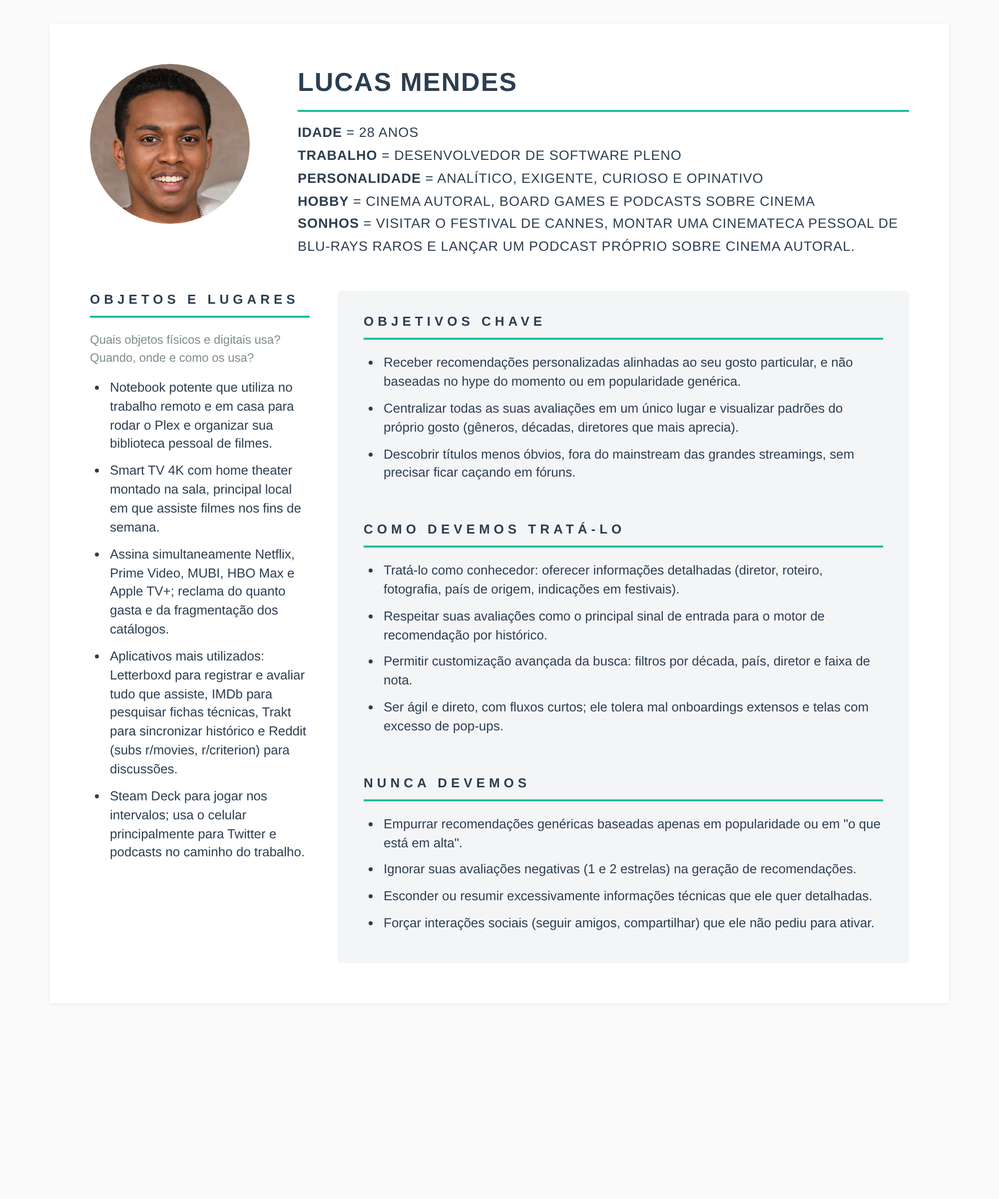
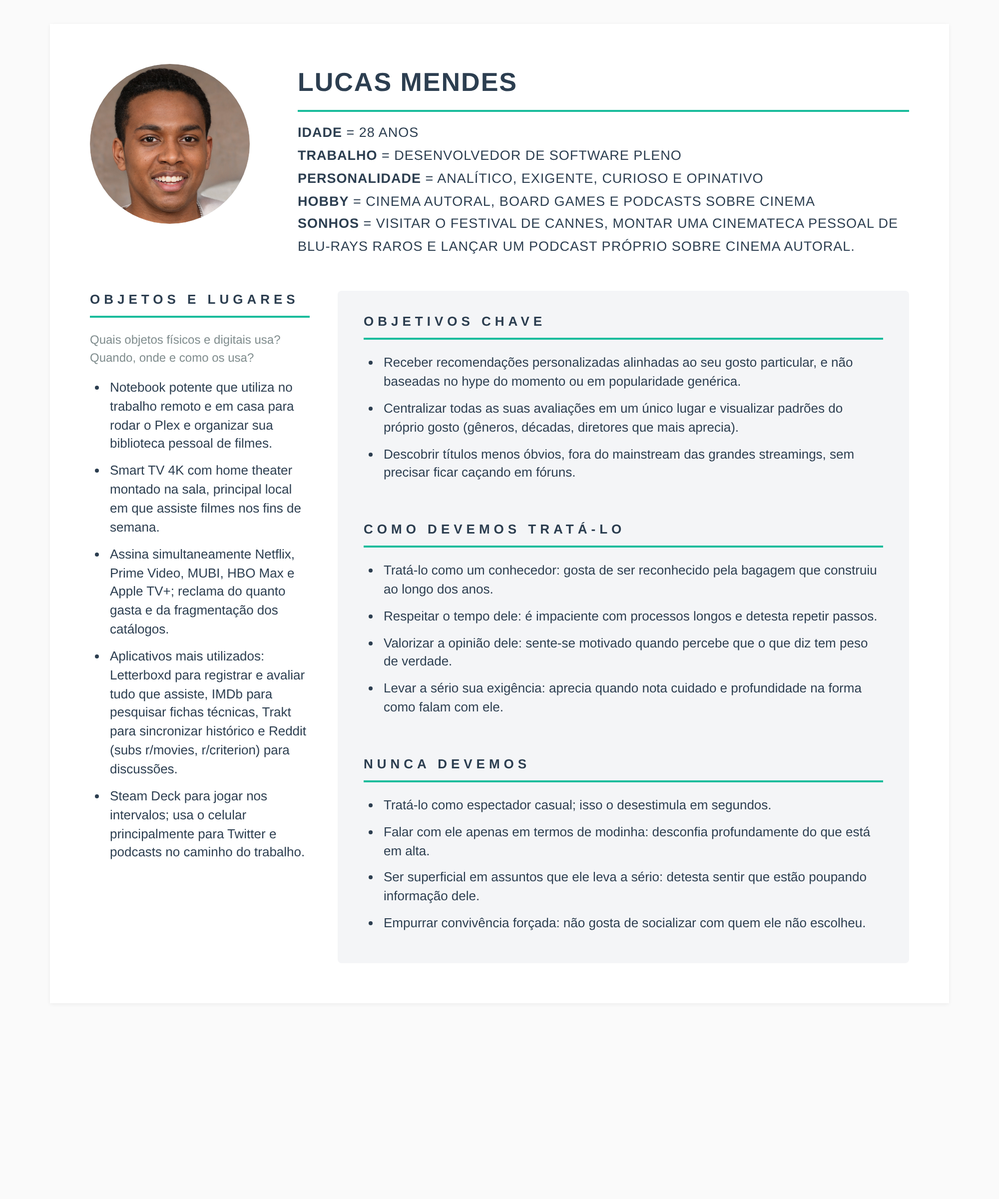
Etapa 3: ajustes nas personas e seções 4.3 e 4.4 do design.md

Changed region(s): [[0.372, 0.625, 0.868, 0.7812], [0.372, 0.4688, 0.868, 0.5938]]

diff --git a/docs/personas/persona-3.html b/docs/personas/persona-3.html
@@ -59,28 +59,20 @@
         <section class="persona-block">
           <h3>Como Devemos Tratá-lo</h3>
           <ul>
-            <li>Oferecer uma interface moderna, sofisticada e esteticamente agradável, com recursos que enriqueçam sua
-              experiência visual.</li>
-            <li>Disponibilizar detalhes técnicos ricos sobre os filmes, incluindo elenco, equipe técnica, curiosidades
-              de produção e avaliações da crítica.</li>
-            <li>Apresentar recomendações precisas baseadas em nichos ou estilos de direção, mostrando que a plataforma
-              entende seu nível de exigência.</li>
-            <li>Permitir uma experiência social, facilitando o compartilhamento de críticas e listas em outras redes.
-            </li>
+            <li>Reconhecer o olhar criativo dele: gosta de ser tratado como alguém com repertório visual e opinião própria.</li>
+            <li>Conversar de igual para igual: é jovem, mas detesta ser tratado como leigo só pela idade ou pelo cargo de estagiário.</li>
+            <li>Levar a sério seu gosto por descobertas: sente-se valorizado quando percebe disposição em ir além do óbvio com ele.</li>
+            <li>Respeitar sua agilidade: tem paciência curta com burocracia e processos travados.</li>
           </ul>
         </section>
 
         <section class="persona-block">
           <h3>Nunca Devemos</h3>
           <ul>
-            <li>Apresentar apenas recomendações genéricas ou os blockbusters do momento, ignorando seu interesse por
-              obras mais profundas.</li>
-            <li>Ocultar detalhes técnicos, fichas completas ou avaliações sob camadas de cliques difíceis de acessar.
-            </li>
-            <li>Entregar uma interface lenta, engessada ou com design datado, o que geraria frustração e abandono
-              imediato.</li>
-            <li>Dificultar a organização pessoal do usuário, impedindo a criação de listas ou o registro detalhado do
-              que já foi assistido.</li>
+            <li>Tratá-lo como público de massa: ele detesta ser confundido com o "espectador médio".</li>
+            <li>Dar respostas prontas e clichês: percebe rapidamente quando algo é superficial.</li>
+            <li>Subestimá-lo pela idade ou pelo cargo: nada o incomoda mais do que paternalismo.</li>
+            <li>Apresentar algo malfeito visualmente: o desleixo estético o irrita instantaneamente.</li>
           </ul>
         </section>
       </div>

diff --git a/docs/personas/persona-2.html b/docs/personas/persona-2.html
@@ -48,20 +48,20 @@
       <section class="persona-block">
         <h3>Como Devemos Tratá-la</h3>
         <ul>
-          <li>Usar linguagem clara, simples e sem jargão técnico de cinema; explicar o que cada elemento faz com palavras do dia a dia.</li>
-          <li>Apresentar opções pré-filtradas e poucos cliques entre abrir o sistema e decidir o que assistir.</li>
-          <li>Aceitar que ela entrará com poucos gêneros e quase nenhuma avaliação inicial, oferecendo recomendações úteis mesmo nesse cenário (cold start).</li>
-          <li>Mostrar com destaque a plataforma de streaming onde o título está, com link direto para o aplicativo.</li>
+          <li>Conversar com simplicidade: gosta quando explicam as coisas como em uma conversa de cozinha.</li>
+          <li>Respeitar o pouco tempo livre que sobra entre plantões, casa e família.</li>
+          <li>Reconhecer o peso das indicações de pessoas próximas: ela confia muito mais em quem conhece do que em opiniões anônimas.</li>
+          <li>Acolher dúvidas básicas sem julgamento: sente-se à vontade quando ninguém a faz se sentir atrasada com tecnologia.</li>
         </ul>
       </section>
 
       <section class="persona-block">
         <h3>Nunca Devemos</h3>
         <ul>
-          <li>Sobrecarregar a tela com filtros, abas e opções avançadas que ela não pediu.</li>
-          <li>Exigir que ela avalie filmes para conseguir usar a plataforma; avaliar deve ser opcional.</li>
-          <li>Esconder ou minimizar a informação de em qual streaming o título está disponível.</li>
-          <li>Usar termos técnicos de cinema (mise-en-scène, fotografia, escola estética) sem contexto.</li>
+          <li>Tratá-la com formalidade fria ou linguagem complicada: rapidamente se sente fora do lugar.</li>
+          <li>Apressá-la: detesta sentir que precisa correr para concluir algo simples.</li>
+          <li>Ignorar o contexto familiar dela: não gosta quando esquecem que mãe e esposa cuidam de muita gente além de si mesmas.</li>
+          <li>Constrangê-la por dúvidas básicas: nada a afasta mais rápido do que sentir-se julgada.</li>
         </ul>
       </section>
     </div>

diff --git a/docs/personas/persona-1.html b/docs/personas/persona-1.html
@@ -48,20 +48,20 @@
       <section class="persona-block">
         <h3>Como Devemos Tratá-lo</h3>
         <ul>
-          <li>Tratá-lo como conhecedor: oferecer informações detalhadas (diretor, roteiro, fotografia, país de origem, indicações em festivais).</li>
-          <li>Respeitar suas avaliações como o principal sinal de entrada para o motor de recomendação por histórico.</li>
-          <li>Permitir customização avançada da busca: filtros por década, país, diretor e faixa de nota.</li>
-          <li>Ser ágil e direto, com fluxos curtos; ele tolera mal onboardings extensos e telas com excesso de pop-ups.</li>
+          <li>Tratá-lo como um conhecedor: gosta de ser reconhecido pela bagagem que construiu ao longo dos anos.</li>
+          <li>Respeitar o tempo dele: é impaciente com processos longos e detesta repetir passos.</li>
+          <li>Valorizar a opinião dele: sente-se motivado quando percebe que o que diz tem peso de verdade.</li>
+          <li>Levar a sério sua exigência: aprecia quando nota cuidado e profundidade na forma como falam com ele.</li>
         </ul>
       </section>
 
       <section class="persona-block">
         <h3>Nunca Devemos</h3>
         <ul>
-          <li>Empurrar recomendações genéricas baseadas apenas em popularidade ou em "o que está em alta".</li>
-          <li>Ignorar suas avaliações negativas (1 e 2 estrelas) na geração de recomendações.</li>
-          <li>Esconder ou resumir excessivamente informações técnicas que ele quer detalhadas.</li>
-          <li>Forçar interações sociais (seguir amigos, compartilhar) que ele não pediu para ativar.</li>
+          <li>Tratá-lo como espectador casual; isso o desestimula em segundos.</li>
+          <li>Falar com ele apenas em termos de modinha: desconfia profundamente do que está em alta.</li>
+          <li>Ser superficial em assuntos que ele leva a sério: detesta sentir que estão poupando informação dele.</li>
+          <li>Empurrar convivência forçada: não gosta de socializar com quem ele não escolheu.</li>
         </ul>
       </section>
     </div>

diff --git a/docs/personas/screenshot.js b/docs/personas/screenshot.js
@@ -1,0 +1,22 @@
+const puppeteer = require('puppeteer');
+
+const files = [
+  { html: 'persona-1.html', out: 'img/screenshots/persona-1.png', width: 1000, height: 1200 },
+  { html: 'persona-2.html', out: 'img/screenshots/persona-2.png', width: 1000, height: 1200 },
+  { html: 'persona-3.html', out: 'img/screenshots/persona-3.png', width: 1000, height: 1200 },
+];
+
+(async () => {
+  const browser = await puppeteer.launch({
+    args: ['--no-sandbox', '--disable-setuid-sandbox'],
+  });
+  for (const f of files) {
+    const page = await browser.newPage();
+    await page.setViewport({ width: f.width, height: f.height, deviceScaleFactor: 2 });
+    await page.goto(`file:///work/${f.html}`, { waitUntil: 'networkidle0' });
+    await page.screenshot({ path: `/work/${f.out}`, fullPage: true });
+    console.log(`ok: ${f.out}`);
+    await page.close();
+  }
+  await browser.close();
+})();

diff --git a/docs/design.md b/docs/design.md
@@ -65,50 +65,146 @@ O mapa de empatia complementa a persona ao detalhar o contexto emocional e compo
 
 ## 4.3 Protótipos das Interfaces
 
-### 4.3.1 Tela de Login: Tela por onde o usuário acessa o sistema com e-mail e senha.
+### 4.3.1 Tela de Login
 
 ![Tela de login do CineMatch](personas/img/screenshots/prototipo/login.png)
 
-### 4.3.2 Tela de Cadastro: Tela onde o usuário cria sua conta e seleciona, no mínimo, três gêneros de preferência para o sistema iniciar as recomendações.
+**Objetivo da Tela**: autenticar usuários já cadastrados, permitindo acesso à área logada por e-mail e senha. A tela ainda apresenta credenciais de demonstração e um link para o fluxo de cadastro, atendendo tanto quem retorna quanto quem está conhecendo o sistema.
+
+**Princípios Gestálticos**: proximidade nos campos do formulário (e-mail, senha e botão "Entrar na sessão" agrupados em bloco único, separados visualmente da arte editorial à esquerda); figura/fundo no contraste do cartão claro do formulário sobre o fundo escuro com poster wall; similaridade nos campos de entrada com o mesmo tratamento visual; continuidade na leitura vertical, do título do produto até o botão de envio.
+
+**Recomendações Ergonômicas**: condução, com rótulos claros acima dos campos e mensagem de erro logo abaixo; significação dos códigos no botão primário em destaque (cor amber) versus link secundário "Primeira vez?"; consistência tipográfica com o restante do produto; carga de trabalho reduzida com apenas dois campos solicitados e o uso dos atributos `autocomplete` para preenchimento automático pelo navegador.
+
+**Regras de Ouro**: prevenção de erros através do `novalidate` controlado por JS, exibindo mensagens contextuais em vez de balões nativos; feedback informativo na área `campo-erro` quando a credencial é inválida; redução da carga de memória de curto prazo, oferecendo as credenciais de demonstração visíveis em caixa lateral; consistência com o restante do produto (mesma família tipográfica, mesmas cores e mesmo padrão de botões usados em todas as outras telas).
+
+### 4.3.2 Tela de Cadastro
 
 ![Tela de cadastro do CineMatch](personas/img/screenshots/prototipo/onboarding.png)
 
-### 4.3.3 Tela Início: Tela inicial padrão visualizada pelo usuário logo após o login, exibindo título em destaque e listas de recomendações alinhadas ao seu perfil de consumo.
+**Objetivo da Tela**: criar a conta do novo usuário em duas etapas, capturando dados básicos (nome, e-mail, senha) na primeira e, na segunda, no mínimo três gêneros de preferência que alimentarão as recomendações de cold-start.
+
+**Princípios Gestálticos**: continuidade no indicador de duas etapas (dots no topo, com o ativo em amber e o concluído em moss); similaridade nos chips de gênero (mesma forma, mesmo tamanho, mesmo comportamento de toggle); proximidade nos botões de ação ("Voltar" e "Criar conta e entrar") agrupados na barra de ações; fechamento percebido ao completar o segundo passo, com o contador mudando de estado.
+
+**Recomendações Ergonômicas**: condução por etapas (progressive disclosure), pedindo poucos dados por vez; controle explícito com botões "Voltar" e "Continuar" sempre visíveis; significação dos códigos no contador "Selecionados: X / mínimo 3", que troca de cor quando o critério é atendido; carga de trabalho reduzida com seleção por toque em chip, sem digitação para escolher gêneros.
+
+**Regras de Ouro**: feedback imediato a cada chip selecionado (atualização do contador e da cor); prevenção de erros, mantendo o botão "Criar conta" desabilitado até a marca de três gêneros; reversão de ações pelo botão "Voltar", que preserva os dados já preenchidos no passo anterior; redução da carga de memória de curto prazo, deixando visível o critério mínimo na própria tela.
+
+### 4.3.3 Tela Início
 
 ![Tela inicial do CineMatch](personas/img/screenshots/prototipo/home.png)
 
-### 4.3.4 Tela de Busca: Tela utilizada para consulta de filmes e séries por título, com filtros avançados de tipo, gênero, ano e nota mínima.
+**Objetivo da Tela**: oferecer ao usuário recém-logado uma porta de entrada com recomendações personalizadas, exibindo um título em destaque (featured hero) e linhas temáticas conforme seu perfil de consumo (cold-start, transição ou histórico) e fechando com uma seção de "Em alta na crítica".
+
+**Princípios Gestálticos**: figura/fundo no hero com backdrop borrado e gradiente sobre o pôster, fazendo o conteúdo textual sobressair; similaridade nos cards de título, todos com mesmo aspect ratio, mesma altura de tipografia e mesmo padrão de meta-informação; proximidade nas seções, cada uma com cabeçalho próprio (número, título e tag de estratégia) que delimita visualmente os blocos; continuidade na leitura em colunas dentro de cada `row-titles` com scroll horizontal e snap.
+
+**Recomendações Ergonômicas**: condução pela saudação contextual (Boa madrugada, Bom dia, etc.) e pela numeração das seções (Nº 01, Nº 02, ...) que orienta o usuário; significação dos códigos com a tag de estratégia (ex.: "cold-start", "histórico") explicitando o porquê das recomendações; compatibilidade com a forma como serviços de streaming organizam o catálogo (linhas temáticas); carga de trabalho reduzida com ações primárias diretamente no hero ("Ver ficha" e "+ Watchlist").
+
+**Regras de Ouro**: feedback informativo no toast exibido após adicionar à watchlist; reversão de ações via botão "Desfazer" no próprio toast; consistência visual e de comportamento com as demais telas (mesmos cards, mesmos botões); diálogos com fechamento, já que cada interação de adicionar/remover termina com a confirmação no toast.
+
+### 4.3.4 Tela de Busca
 
 ![Tela de busca do CineMatch](personas/img/screenshots/prototipo/busca.png)
 
-### 4.3.5 Tela de Detalhes do Título: Tela onde o título selecionado é visualizado por completo, sendo possível avaliar, adicionar à watchlist, favoritar e consultar em quais plataformas de streaming está disponível.
+**Objetivo da Tela**: permitir consulta avançada ao catálogo combinando texto livre com filtros por tipo (filme/série), gênero, faixa de ano e nota mínima, exibindo os resultados em grid e contagem dinâmica.
+
+**Princípios Gestálticos**: proximidade no agrupamento dos filtros por categoria, cada um com seu rótulo e seus controles dentro do `filter-group`; similaridade nas checkboxes e nos cards de resultado; continuidade na coluna lateral fixa (sticky), que acompanha o scroll dos resultados; figura/fundo entre a sidebar com fundo neutro e o grid de resultados, mais claro.
+
+**Recomendações Ergonômicas**: adaptabilidade pela combinação de filtros (texto, checkbox, range slider); feedback em tempo real, com a contagem "X títulos" e o texto "≥ X.X ★" recalculados a cada alteração; controle explícito no botão "Limpar filtros"; significação dos códigos no slider com `accent-color` amber, alinhado à identidade do produto.
+
+**Regras de Ouro**: feedback informativo na contagem e no texto do filtro de nota; reversão de ações pelo "Limpar filtros"; redução da carga de memória de curto prazo, mantendo todos os filtros aplicados visíveis; prevenção de erros, com filtros que se aplicam instantaneamente, sem necessidade de submissão explícita que possa falhar.
+
+### 4.3.5 Tela de Detalhes do Título
 
 ![Tela de detalhes de um título](personas/img/screenshots/prototipo/detalhes.png)
 
-### 4.3.6 Tela Watchlist: Tela onde são listados os títulos que o usuário marcou para assistir depois, com opção de remoção.
+**Objetivo da Tela**: apresentar a ficha completa do título selecionado (sinopse, meta, elenco, direção e provedores de streaming) e oferecer as ações principais sobre ele: avaliar com estrelas, adicionar à watchlist e favoritar.
+
+**Princípios Gestálticos**: figura/fundo no hero com backdrop blur e gradiente, evidenciando pôster, título e ações; proximidade entre os três botões de ação (Avaliar, Watchlist, Favoritar) na mesma linha; similaridade nas pílulas de gênero e nas linhas de provedor; continuidade na leitura vertical (hero, blocos de elenco/direção e onde assistir, dispostos em grid simétrico).
+
+**Recomendações Ergonômicas**: condução pela hierarquia visual entre título, sinopse e ações; significação dos códigos nas estrelas (★ X/5), no coração para favoritos e no check para watchlist; controle explícito pelo modal de avaliação, em que o usuário confirma ou cancela; compatibilidade com as expectativas vindas de outras plataformas (logo do streaming, link externo abrindo em nova aba com `target="_blank"`).
+
+**Regras de Ouro**: atalhos de teclado dentro do modal (números 1 a 5 para estrelas, ESC para fechar) com a dica "Atalho: pressione 1 a 5" exibida ao lado do picker; feedback imediato no estado dos botões ("✓ Na watchlist", "♥ Favoritado", "★ X/5 · Reavaliar"); reversão de ações pelo "Desfazer" do toast e pela própria reavaliação; diálogos com fechamento, com o modal terminando em "Confirmar" ou "Cancelar".
+
+### 4.3.6 Tela Watchlist
 
 ![Tela de watchlist do CineMatch](personas/img/screenshots/prototipo/watchlist.png)
 
-### 4.3.7 Tela Favoritos: Tela para visualização dos títulos marcados como favoritos pelo usuário.
+**Objetivo da Tela**: reunir, em um único lugar, os títulos que o usuário marcou para assistir depois, com possibilidade de remoção rápida e link de ida ao catálogo quando a lista está vazia.
+
+**Princípios Gestálticos**: similaridade no grid de cards (todos com mesmo formato, mesmo padrão de meta e mesmo botão "Remover" sobreposto ao pôster); proximidade entre o pôster e o título dentro de cada card; figura/fundo no botão "Remover" com fundo translúcido sobre o pôster (`backdrop-filter: blur`); continuidade na varredura em colunas do grid `auto-fill`.
+
+**Recomendações Ergonômicas**: condução, com lead text contextual indicando contagem ou incentivando a explorar; significação dos códigos no botão "Remover" canto superior direito, padrão repetido em outras coleções; controle explícito do usuário sobre o conteúdo da própria coleção; carga de trabalho reduzida com remoção em um único clique.
+
+**Regras de Ouro**: empty state informativo, com ícone, título "Nada por aqui ainda", subtítulo orientador e CTA "Explorar catálogo" levando à busca; reversão de ações pelo "Desfazer" do toast após remoção; consistência com Favoritos e Histórico, que repetem o mesmo padrão de coleção; feedback informativo a cada operação.
+
+### 4.3.7 Tela Favoritos
 
 ![Tela de favoritos do CineMatch](personas/img/screenshots/prototipo/favoritos.png)
 
-### 4.3.8 Tela Histórico: Tela onde o usuário consulta cronologicamente todos os títulos que avaliou, podendo remover entradas.
+**Objetivo da Tela**: agrupar os títulos marcados como favoritos pelo usuário, com a mesma mecânica de listagem e remoção da watchlist, deixando claro que se trata de uma coleção afetiva (e não de fila de consumo).
+
+**Princípios Gestálticos**: similaridade total com a tela de watchlist (mesmo grid, mesmo card, mesmo botão), reforçando o aprendizado; figura/fundo idêntico ao da watchlist; proximidade dos cards no grid; o que diferencia é a substituição do ícone do empty state por um coração vazio (♡), reforçando a identidade da coleção.
+
+**Recomendações Ergonômicas**: consistência com a watchlist (mesmas posições, mesmos rótulos, mesmas ações), reduzindo o custo de aprendizado; significação dos códigos no ícone de coração, presente em todo o produto para "favoritar"; carga de trabalho reduzida pela transferência direta do conhecimento adquirido em outras coleções.
+
+**Regras de Ouro**: consistência (a regra mais explorada nesta tela); reversão pelo "Desfazer" do toast; empty state com CTA "Voltar para o início"; feedback informativo na contagem e no toast.
+
+### 4.3.8 Tela Histórico
 
 ![Tela de histórico do CineMatch](personas/img/screenshots/prototipo/historico.png)
 
-### 4.3.9 Tela Perfil: Tela funcionando como painel de controle, onde o usuário edita seu cadastro e acompanha estatísticas de avaliações, watchlist e favoritos.
+**Objetivo da Tela**: registrar cronologicamente todos os títulos que o usuário avaliou, exibindo a nota dada e a data da avaliação, com a possibilidade de remover entradas individualmente.
+
+**Princípios Gestálticos**: continuidade na lista vertical, em que cada linha (`provider-row`) repete o mesmo ritmo: pôster mini à esquerda, título e meta no centro, rating e ação à direita; similaridade entre as linhas; proximidade entre o título do filme, o ano, o tipo e a data dentro de cada linha; figura/fundo entre o card claro de cada item e o fundo da página.
+
+**Recomendações Ergonômicas**: condução pela ordem cronológica reversa (mais recentes em cima); significação dos códigos no rating em destaque (★ X) à direita e na data formatada em pt-BR ("Avaliado em DD MMM YYYY"); compatibilidade com a leitura natural ocidental (esquerda para a direita); carga de trabalho reduzida pelo reaproveitamento do componente `provider-row`, que o usuário já conhece da tela de Detalhes.
+
+**Regras de Ouro**: redução da carga de memória, exibindo a data junto da avaliação; reversão pelo "Desfazer" do toast, que restaura inclusive a nota original; consistência com o padrão de remoção das outras coleções; empty state coerente, com o ícone de estrela, indicando que basta avaliar um filme para iniciar o histórico.
+
+### 4.3.9 Tela Perfil
 
 ![Tela de perfil do CineMatch](personas/img/screenshots/prototipo/perfil.png)
 
-### 4.3.10 Tela Preferências de Gênero: Tela onde o usuário gerencia os gêneros que utiliza como base para as recomendações por preferência.
+**Objetivo da Tela**: funcionar como painel de controle do usuário, permitindo edição de dados pessoais (nome, e-mail, senha), visualização de estatísticas (avaliações, watchlist, favoritos) e atalhos para gêneros, histórico e watchlist.
+
+**Princípios Gestálticos**: proximidade na sidebar (avatar, nome, e-mail e estatísticas como bloco coeso); similaridade nas três estatísticas, dispostas em grid de três colunas com mesma tipografia; continuidade entre a sidebar à esquerda e o conteúdo à direita; figura/fundo no avatar circular com gradiente sobre o cartão claro.
+
+**Recomendações Ergonômicas**: condução pela divisão entre "Dados pessoais" (editáveis) e "Atalhos" (navegação); controle explícito com botões "Cancelar" e "Salvar alterações"; significação dos códigos no badge "Administrador" quando o papel for admin; carga de trabalho reduzida no campo "Senha", opcional ("Mínimo 6 caracteres se for alterar").
+
+**Regras de Ouro**: prevenção de erros, com mensagem clara sobre o opcional da senha; feedback informativo via toast ao salvar; consistência tipográfica e de componentes (mesmo `field`, mesmo padrão de cards de atalho); reversão pelo "Cancelar", que descarta alterações antes do salvamento.
+
+### 4.3.10 Tela Preferências de Gênero
 
 ![Tela de preferências de gênero](personas/img/screenshots/prototipo/preferencias.png)
 
-### 4.3.11 Tela Administrativa: Tela onde o administrador consulta usuários cadastrados, podendo bloquear e desbloquear contas conforme necessidade operacional.
+**Objetivo da Tela**: permitir que o usuário gerencie os gêneros que servem de base para as recomendações por preferência, mantendo a regra de mínimo de três e explicando, de forma educativa, por que isso impacta a experiência.
+
+**Princípios Gestálticos**: similaridade entre todos os chips de gênero, com a mesma forma, mesmo tamanho e mesma transição entre os estados "selecionado" e "não selecionado"; proximidade dos chips no grid e do contador acima deles; figura/fundo no info box com borda lateral amber, separando-o visualmente do bloco principal; fechamento percebido quando o contador atinge três e muda para verde.
+
+**Recomendações Ergonômicas**: condução pela mensagem-lead que explica o propósito; significação dos códigos no contador, que alterna entre "faltam N" (em tom muted) e "✓ pronto para salvar" (em verde moss); controle explícito pelos botões "Restaurar" e "Salvar preferências"; carga de trabalho reduzida pela seleção por toque em chip, sem digitação.
+
+**Regras de Ouro**: prevenção de erros, com o botão "Salvar preferências" desabilitado enquanto a regra dos três não é cumprida; feedback informativo no contador em tempo real; reversão pelo botão "Restaurar"; redução da carga de memória, deixando o critério mínimo sempre visível no contador.
+
+### 4.3.11 Tela Administrativa
 
 ![Painel administrativo de usuários](personas/img/screenshots/prototipo/admin.png)
 
+**Objetivo da Tela**: oferecer ao administrador uma visão consolidada dos usuários da plataforma, com filtros por status (Todos, Ativos, Bloqueados) e busca por nome ou e-mail, permitindo bloquear ou desbloquear contas conforme necessidade operacional.
+
+**Princípios Gestálticos**: continuidade nas linhas da tabela, todas alinhadas pelas mesmas colunas (Usuário, E-mail, Papel, Avaliações, Status, Ações); similaridade nos badges (papel e status), todos com a mesma forma de pílula em mono uppercase; proximidade entre os tabs e o campo de busca, formando uma toolbar única; figura/fundo no hover das linhas, com leve tinta amber a 4% de opacidade.
+
+**Recomendações Ergonômicas**: condução pelos tabs com contagem dinâmica entre parênteses ("Todos (N)", "Ativos (N)", "Bloqueados (N)"); significação dos códigos nas cores dos badges (verde moss para ativo, vermelho crimson para bloqueado, amber para admin); compatibilidade com painéis administrativos típicos (tabela densa com ações inline); adaptabilidade pela combinação de filtro por aba e busca textual em tempo real.
+
+**Regras de Ouro**: feedback informativo no rodapé "X de Y usuários listados"; reversão pelo "Desfazer" do toast após bloquear/desbloquear; prevenção de erros pelo botão "Bloquear" em destaque danger (crimson), avisando visualmente sobre a gravidade da ação; consistência com o restante do produto, reaproveitando os mesmos badges, botões e padrão de toast usados nas demais telas.
+
 ## 4.4 Testes com Protótipos
 
-> Esta seção apresentará os testes de usabilidade aplicados pelos integrantes do grupo com usuários alinhados ao perfil das personas, incluindo o roteiro de tarefas, métricas coletadas (tempo, taxa de sucesso, número de erros, comentários) e a consolidação dos resultados com identificação de pontos de melhoria.
+Foram realizados testes de usabilidade com usuários distintos, em que cada participante percorreu um conjunto de tarefas no protótipo (criar conta com seleção de gêneros, abrir a ficha de um título em destaque, adicionar e remover da watchlist, avaliar um filme, usar a busca com filtros, alterar preferências e remover entrada do histórico) e classificou cada operação como Fácil, Mediano ou Difícil. Os resultados estão sintetizados a seguir.
+
+Dados do usuário 1: Cláudia Ribeiro, 45 anos, professora de ensino médio na rede estadual, casada, mãe de dois filhos. Assiste a séries e filmes nos finais de semana com a família, assina Netflix e Globoplay e tem familiaridade média com aplicativos de celular.
+
+Resultado 1: Classificou a maior parte das tarefas como "Fácil" e duas como "Mediano". Aprovou a estética geral e a clareza dos textos, comentando que o sistema "não parecia um site complicado de cinéfilo". Encontrou facilmente o título em destaque na tela inicial e elogiou a ficha de detalhes pela quantidade de informação reunida sem poluição visual. Estranhou, no cadastro, a obrigatoriedade de selecionar três gêneros, mas reconheceu o valor depois de ver as recomendações iniciais. Não percebeu o atalho de teclado para avaliar e sugeriu que a dica "Atalho: pressione 1 a 5" ficasse mais visível. Na busca, demorou alguns segundos para entender que o controle deslizante era a nota mínima e sugeriu trocá-lo por um seletor com estrelas. Destacou positivamente o botão "Desfazer" exibido após remover algo, comentando que isso "tira o medo de errar".
+
+Dados do usuário 2: Daniel Soares, 27 anos, designer gráfico freelancer. Cinéfilo, mantém perfil ativo no Letterboxd, assina três serviços de streaming e tem alta proficiência tanto em desktop quanto em mobile.
+
+Resultado 2: Classificou todas as tarefas como "Fácil". Comentou que a experiência foi rápida e fluida, que a paleta funcionou bem e que a hierarquia tipográfica do hero da Home estava "bem resolvida". Aproveitou o atalho de teclado para avaliar e citou como uma diferença que percebe em poucos produtos. Apontou que a saudação contextual ("Boa noite") ficou simpática, mas pode infantilizar um produto sério sobre cinema, sugeriu deixá-la opcional. Achou que os ícones de empty state em caracteres especiais (∅, ♡, ★) parecem pouco refinados perto do restante do sistema e propôs trocá-los por SVG. Na busca, gostou da aplicação dos filtros em tempo real, mas sentiu falta de mais opções de ordenação além de "relevância" (sugeriu nota, ano e popularidade). Reforçou ao final que o produto "já está usável" e que os ajustes são de polimento.
